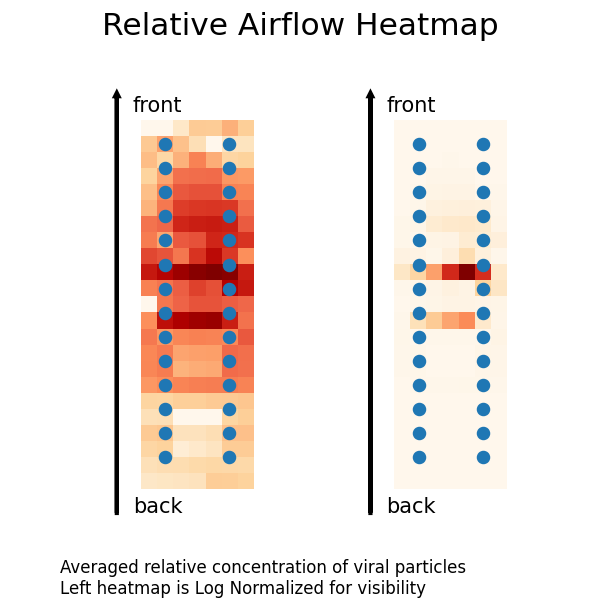
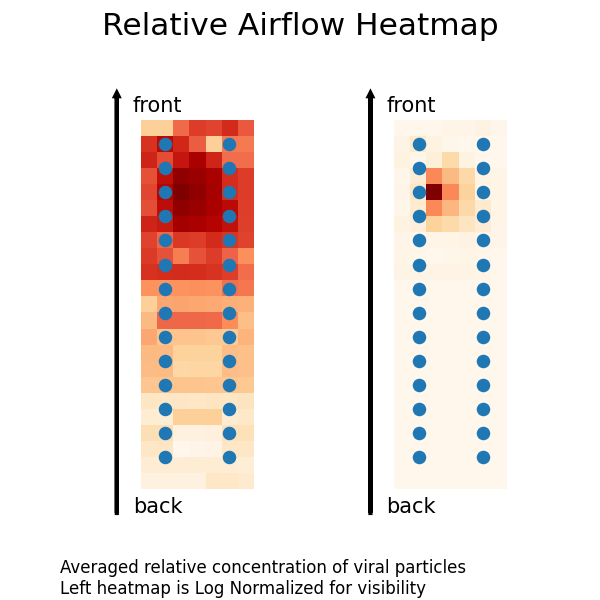
ok

Changed region(s): [[0.21, 0.18, 0.45, 0.84], [0.66, 0.24, 0.87, 0.57], [0.69, 0.21, 0.72, 0.24]]

diff --git a/av.py b/av.py
@@ -44,7 +44,7 @@ class user_viz():
         self.input_params2 = load_parameters_av(filepath='results/aerosol_data_.json')
         self.mask_eff = self.input_params2["mask_passage_prob"]
         self.seat_var = self.input_params["seating_choice"]
-        self.bus_trips = []
+        self.bus_out_arrays = []
 
         # bus dimensions
         # width and height are relatively standard: ergo area is 2.3 * L
@@ -134,182 +134,165 @@ class user_viz():
         print('Seating Plot Complete')
         return
 
-    def conc_heat(self):
-        '''
-        average over model runs: out_matrix averages
-        '''
-
-
-        bus_seating = self.generate_bus_seating()
-        bus_trip, conc_array, out_mat, chance_nonzero, avg_mat = bus_sim(int(self.students_var), self.mask_var, self.number_simulations, self.trip_length, self.seat_var, self.window_var) # replace default with selected
-        self.plot_bus_seating(bus_seating)
-        x_arr = []
-        y_arr = []
-        for i in bus_seating.items():
-            x_arr.append(i[1][1])
-            y_arr.append(i[1][0] * 1.5 + 1)
-
-        # get average of conc_array; avg_mat???
-
-        rot = mpl.transforms.Affine2D().rotate_deg(180)
-        fig = plt.figure()
-        ax1 = fig.add_subplot(1, 2, 1)
-        ax1.matshow(out_mat, cmap="OrRd", norm=mpl.colors.LogNorm())
-        plt.arrow(-2,24,0,-26, head_width=0.2, head_length=0.2, fc='k', ec='k')
-        plt.scatter(x=x_arr, y=y_arr, s=5)
-        plt.gcf().set_size_inches(2,2)
-        # plt.suptitle('Relative Airflow Heatmap', fontsize=7.5)
-        plt.annotate(xy=(-1, -1), text='front', fontsize=5)
-        plt.annotate(xy=(-1, 24), text='back', fontsize=5)
-        plt.axis('off')
-
-
-        ax2 = fig.add_subplot(1,2,2)
-        ax2.matshow(out_mat, cmap="OrRd")#, norm=mpl.colors.LogNorm())
-        plt.arrow(-2,24,0,-26, head_width=0.2, head_length=0.2, fc='k', ec='k')
-        plt.scatter(x=x_arr, y=y_arr, s=5)
-        plt.gcf().set_size_inches(2,2)
-        plt.suptitle('Relative Airflow Heatmap', fontsize=7.5)
-        plt.annotate(xy=(-1, -1), text='front', fontsize=5)
-        plt.annotate(xy=(-1, 24), text='back', fontsize=5)
-        # log scale vs regular scale + 'be not afraid'
-        plt.axis('off')
-        fig.text(.1, .01, 'Averaged relative concentration of viral particles\nLeft heatmap is Log Normalized for visibility', fontsize=4)
-        plt.savefig('results/relative_airflow.png', dpi=300)
-
-        print('relative airflow complete!')
-        # plt.show()
-
-
-                #### LOCAL / AV OUTPUT
-                # matshow triple
-                # 1 = worst case infectivity exhalation rate
-
-                # 2 = best case
-
-                # 3 = this case
-
-                # concentration average:
-                # take average of last step of 10k samples
-
-
-        return bus_trip, conc_array, out_mat, chance_nonzero, avg_mat, bus_seating
 
     # function to run model with user input
     def model_run(self):
         '''
-        1. call bus_trip
-
-        2. create figure
-        2.1 start plotting hist
-        2.2 window curve
-        2.3 5-min transmission likelihood
-        2.4 Averaged by Run and by Step
-        2.5 Infections by run
-        2.6 Scatter of distance vs infection
-        2.7 Transmission Rates
+        1 call bus_out_array
+        2 start plotting hist
+        3 window curve
+        4 5-min transmission likelihood
+        5 Averaged by Run and by Step
+        6 Infections by run
+        7 Scatter of distance vs infection
+        8 Transmission Rates
 
         '''
 
-        # run bus model
-        bus_trip, conc_array, out_mat, chance_nonzero, avg_mat, bus_seating = self.conc_heat() # THIS CASE
+        # 1bus_seating = self.generate_bus_seating()
+        bus_out_array, conc_array, out_mat, chance_nonzero, avg_mat = bus_sim(int(self.students_var), self.mask_var, self.number_simulations, self.trip_length, self.seat_var, self.window_var) # replace default with selected
+
         self.chance_nonzero = chance_nonzero
-        # print(chance_nonzero, 'more than none?')
         self.conc_array = conc_array
-        # self.bus_trips.append(bus_trip)
-        # print('model_run start')
+
+        # 2
         plt.figure(figsize=(5,4))#, dpi=300)
         plt.gcf().set_size_inches(5,4)
 
-        output_filepath = "/output/bus_simulation_" + str(self.students_var) + '_' + str(self.mask_var)+ '_' + str(self.number_simulations) + '_' + str(self.trip_length) + '_' + str(self.seat_var) + '_' + str(self.window_var) # str(i) for i in [self.inputs]
+        output_filepath = "output/bus_simulation_" + str(self.students_var) + '_' + str(self.mask_var)+ '_' + str(self.number_simulations) + '_' + str(self.trip_length) + '_' + str(self.seat_var) + '_' + str(self.window_var) # str(i) for i in [self.inputs]
+
+        # bus_out_array = this case
+        w_bus_out_array, w_conc_array, w_out_mat, w_chance_nonzero, w_avg_mat = bus_sim(int(self.students_var), self.mask_var, self.number_simulations, self.trip_length, self.seat_var, self.window_var) # WORST CASE
+
+        b_bus_out_array, b_conc_array, b_out_mat, b_chance_nonzero, b_avg_mat = bus_sim(int(self.students_var), self.mask_var, self.number_simulations, self.trip_length, self.seat_var, self.window_var) # BEST CASE
 
 
-        # bus_trip = this case
-        w_bus_trip, w_conc_array, w_out_mat, w_chance_nonzero, w_avg_mat = bus_sim(int(self.students_var), self.mask_var, self.number_simulations, self.trip_length, self.seat_var, self.window_var) # WORST CASE
-
-        b_bus_trip, b_conc_array, b_out_mat, b_chance_nonzero, b_avg_mat = bus_sim(int(self.students_var), self.mask_var, self.number_simulations, self.trip_length, self.seat_var, self.window_var) # BEST CASE
-
-
-
+        # 3
         # send plots to /output
+
+        # concentration
+        # x_arr = []
+        # y_arr = []
+        # for i in bus_seating.items():
+        #     x_arr.append(i[1][1])
+        #     y_arr.append(i[1][0] * 1.5 + 1)
+        #
+        # # get average of conc_array; avg_mat???
+        #
+        # rot = mpl.transforms.Affine2D().rotate_deg(180)
+        # fig = plt.figure()
+        # ax1 = fig.add_subplot(1, 2, 1)
+        # ax1.matshow(out_mat, cmap="OrRd", norm=mpl.colors.LogNorm())
+        # plt.arrow(-2,24,0,-26, head_width=0.2, head_length=0.2, fc='k', ec='k')
+        # plt.scatter(x=x_arr, y=y_arr, s=5)
+        # plt.gcf().set_size_inches(2,2)
+        # # plt.suptitle('Relative Airflow Heatmap', fontsize=7.5)
+        # plt.annotate(xy=(-1, -1), text='front', fontsize=5)
+        # plt.annotate(xy=(-1, 24), text='back', fontsize=5)
+        # plt.axis('off')
+        #
+        #
+        # ax2 = fig.add_subplot(1,2,2)
+        # ax2.matshow(out_mat, cmap="OrRd")#, norm=mpl.colors.LogNorm())
+        # plt.arrow(-2,24,0,-26, head_width=0.2, head_length=0.2, fc='k', ec='k')
+        # plt.scatter(x=x_arr, y=y_arr, s=5)
+        # plt.gcf().set_size_inches(2,2)
+        # plt.suptitle('Relative Airflow Heatmap', fontsize=7.5)
+        # plt.annotate(xy=(-1, -1), text='front', fontsize=5)
+        # plt.annotate(xy=(-1, 24), text='back', fontsize=5)
+        # # log scale vs regular scale + 'be not afraid'
+        # plt.axis('off')
+        # fig.text(.1, .01, 'Averaged relative concentration of viral particles\nLeft heatmap is Log Normalized for visibility', fontsize=4)
+        # plt.savefig('results/relative_airflow.png', dpi=300)
+        #
+        # print('relative airflow complete!')
 
         # HISTOGRAMS
         # Hist 1 Seating
-        fig, axs = plt.subplots()
-        seat_types = ['full', 'window', 'zigzag']
-        for s in seat_types:
-            bus_trip, conc_array, out_mat, chance_nonzero, avg_mat = bus_sim(int(self.students_var), self.mask_var, self.number_simulations, self.trip_length, s, self.window_var) # SEATING
-            print(bus_trip)
-            pd.Series(bus_trip[4]).plot.hist(bins=np.arange(0, 0.056, 0.001), alpha=.5)
-        plt.legend(['Full Occupancy Seating', 'Window Seats Only', 'Zigzag Seating'])
-        plt.xlabel('Mean likelihood of transmission at each step')
-        plt.ylabel('Number of students with this average risk of transmission')
-        seat_filepath = output_filepath + '_seating.png'
-        plt.savefig(seat_filepath, dpi=300)
+        # print('start seating')
+        # fig1, ax1 = plt.subplots()
+        # seat_types = ['full', 'window', 'zigzag']
+        # for s in seat_types:
+        #     bus_out_array, conc_array, out_mat, chance_nonzero, avg_mat = bus_sim(int(self.students_var), self.mask_var, self.number_simulations, self.trip_length, s, self.window_var) # SEATING
+        #     pd.Series(bus_out_array[2]).plot.hist(bins=np.arange(0, 0.12, 0.001), alpha=.5, ax=ax1)
+        #
+        # plt.legend(['Full Occupancy Seating', 'Window Seats Only', 'Zigzag Seating'])
+        # plt.xlabel('Mean likelihood of transmission at each step')
+        # plt.ylabel('Number of students with this average risk of transmission')
+        # seat_filepath = output_filepath + '_seating.png'
+        # fig1.savefig(seat_filepath, dpi=300)
+        # print('seating complete')
+        # plt.close(fig1)
 
         # Hist 2 Windows
-        window_types = ['closed', 'open']
-        for w in range(len(window_types)):
-            window_ = 6 * w
-            bus_trip, conc_array, out_mat, chance_nonzero, avg_mat = bus_sim(int(self.students_var), self.mask_var, self.number_simulations, self.trip_length, self.seat_var, w) # WINDOW
+        fig2, ax2 = plt.subplots()
+        window_types = [0, 6]
+        win_out_df = pd.DataFrame(columns=window_types)
+        for w in window_types:
+            bus_out_array, conc_array, out_mat, chance_nonzero, avg_mat = bus_sim(int(self.students_var), self.mask_var, self.number_simulations, self.trip_length, self.seat_var, w) # WINDOW
+            pd.Series(bus_out_array[2]).plot.hist(bins=np.arange(0, 0.056, 0.001), alpha=.5, ax=ax2)
 
-            pd.Series(bus_trip[4]).plot.hist(bins=np.arange(0, 0.056, 0.001), alpha=.5)
-
-        plt.legend(['Full Occupancy Seating', 'Window Seats Only', 'Zigzag Seating'])
+        plt.legend([0, 6])
         plt.xlabel('Mean likelihood of transmission at each step')
         plt.ylabel('Number of students with this average risk of transmission')
-        seat_filepath = output_filepath + '_windows.png'
-        plt.savefig(seat_filepath, dpi=300)
+        seat_filepath_2 = output_filepath + '_windows.png'
+        fig2.savefig(seat_filepath_2, dpi=300)
+        plt.close(fig2)
+        print('windows complete')
 
         # Hist 3 Masks
-        mask_amount = [100, 90, 80, 70]
+        fig3 = plt.figure(3)
+        mask_amount = [1, .9, .8, .7]
+        print('start masks')
         for m in mask_amount:
-            bus_trip, conc_array, out_mat, chance_nonzero, avg_mat = bus_sim(int(self.students_var), m, self.number_simulations, self.trip_length, self.seat_var, self.window_var) # SEATING
-            pd.Series(bus_trip[-1]).plot.hist(bins=np.arange(0, 0.056, 0.001), alpha=.5)
+            bus_out_array, conc_array, out_mat, chance_nonzero, avg_mat = bus_sim(int(self.students_var), m, self.number_simulations, self.trip_length, self.seat_var, self.window_var) # SEATING
+            pd.Series(bus_out_array[2]).plot.hist(bins=np.arange(0, 0.056, 0.001), alpha=.5)
 
         plt.legend(['100% Mask compliance', '90% Mask compliance', '80% Mask compliance', '70% Mask compliance'])
         plt.xlabel('Mean likelihood of transmission at each step')
         plt.ylabel('Number of students with this average risk of transmission')
-        seat_filepath = output_filepath + '_masks.png'
-        plt.savefig(seat_filepath, dpi=300)
+        seat_filepath_3 = output_filepath + '_masks.png'
+        fig3.savefig(seat_filepath_3, dpi=300)
+        plt.close(fig3)
+        print('masks complete')
 
         # # KDEPLOT and SCATTERPLOT
         # # KDE
-        # pd.Series(bus_trip).plot.kde(lw=2, c='r') # THIS KDEPLOT IS TO LOOK COOL AND DO NOTHING
-        # rework bus_trip into array of outputs:
+        # pd.Series(bus_out_array).plot.kde(lw=2, c='r') # THIS KDEPLOT IS TO LOOK COOL AND DO NOTHING
+        # rework bus_out_array into array of outputs:
         # All Transmission rates
         # Averaged Student/Run rates
         # Averaged /Step Student/Run rates
         # All Averaged /Step rates
-        # print(len(bus_trip))
+        # print(len(bus_out_array))
         #     fig, axes = plt.figure()
         #     print('please')
         #
         #
         # fig, axs = plt.subplots(2,2)
         # fig.tight_layout()
-        # # axs[0,0] = pd.Series(bus_trip[0]).plot.kde(lw=2, color='blue')
-        # # axs[1,0] = pd.Series(bus_trip[1]).plot.kde(lw=2, color='r')
-        # axs[0,0].hist(bus_trip[0], bins=np.arange(0, .03, .001))
+        # # axs[0,0] = pd.Series(bus_out_array[0]).plot.kde(lw=2, color='blue')
+        # # axs[1,0] = pd.Series(bus_out_array[1]).plot.kde(lw=2, color='r')
+        # axs[0,0].hist(bus_out_array[0], bins=np.arange(0, .03, .001))
         # axs[0,0].set_title('All 5-minute transmission likelihoods')
         #
-        # pd.Series(bus_trip[1]).plot.kde(ax=axs[1,0])#), bins=14)#, bins=np.arange(0, .03, .003))
+        # pd.Series(bus_out_array[1]).plot.kde(ax=axs[1,0])#), bins=14)#, bins=np.arange(0, .03, .003))
         # axs[1,0].set_title('Averaged by Run and by Step')
         #
-        # axs[0,1].hist(pd.Series(bus_trip[2]))#, bins=np.arange(0, .1, .001))
+        # axs[0,1].hist(pd.Series(bus_out_array[2]))#, bins=np.arange(0, .1, .001))
         # axs[0,1].set_title('Infections by run')
         #
-        # # print(bus_trip[3]["0"])
+        # # print(bus_out_array[3]["0"])
         # # axs[1,1] = fig.add_subplot(111)
-        # axs[1,1].scatter(bus_trip[5]["distance"], bus_trip[5]["transmission rate"], s=2, color='green', label='far')
-        # axs[1,1].scatter(bus_trip[4]["distance"], bus_trip[4]["transmission rate"], s=2, color='yellow', label='nearby')
-        # axs[1,1].scatter(bus_trip[3]["distance"], bus_trip[3]["transmission rate"], s=2, color='red', label='neighbors')
+        # axs[1,1].scatter(bus_out_array[5]["distance"], bus_out_array[5]["transmission rate"], s=2, color='green', label='far')
+        # axs[1,1].scatter(bus_out_array[2]["distance"], bus_out_array[2]["transmission rate"], s=2, color='yellow', label='nearby')
+        # axs[1,1].scatter(bus_out_array[3]["distance"], bus_out_array[3]["transmission rate"], s=2, color='red', label='neighbors')
         # axs[1,1].set_title('Distance from infected vs transmission rate')
         # axs[1,1].set_xlabel('Distance in Meters')
         # axs[1,1].set_ylabel('Transmission Rate')
         # plt.legend()
         # plt.savefig('results/transmission_rates.png', dpi=300)
-        # plt.close()
+        # plt.close(fig)
 
 
         # KDE2? One for each student with overlapped sections darker
@@ -317,5 +300,7 @@ class user_viz():
         # SCATTER
             # Distance from initially infectious vs infection rate / 10000
         #
+
+
 
         return

diff --git a/src/infection.py b/src/infection.py
@@ -132,9 +132,9 @@ def load_parameters(filepath):
 
 
 
-def return_aerosol_transmission_rate():
+def return_aerosol_transmission_rate(window):
                             '''
-
+                            TODO: make window variable
                             '''
 
                             dp = load_parameters('results/aerosol_data_.json')
@@ -150,23 +150,24 @@ def return_aerosol_transmission_rate():
                             max_aerosol_radius=2,
                             primary_outdoor_air_fraction=dp['primary_outdoor_air_fraction']
 
-
-
-
+                            if window == 6:
+                                ach = 20
+                            else:
+                                ach = 2
                             mean_ceiling_height_m = mean_ceiling_height * 0.3048 #m3
                             room_vol = floor_area * mean_ceiling_height  # ft3
                             # print(mean_ceiling_height)
                             room_vol_m = 0.0283168 * room_vol[0]  # m3
-                            print('ach', air_exchange_rate[0])
-                            fresh_rate = room_vol[0] * (air_exchange_rate[0]) / 60  # ft3/min
+                            fresh_rate = room_vol[0] * (ach) / 60  # ft3/min
                             recirc_rate = fresh_rate * (1/primary_outdoor_air_fraction - 1)  # ft3/min
                             air_filt_rate = aerosol_filtration_eff[0] * recirc_rate * 60 / room_vol[0]  # /hr
                             eff_aerosol_radius = ((0.4 / (1 - relative_humidity[0])) ** (1 / 3)) * max_aerosol_radius[0]
                             viral_deact_rate = max_viral_deact_rate[0] * relative_humidity[0]
                             sett_speed = 3 * (eff_aerosol_radius / 5) ** 2  # mm/s
                             sett_speed = sett_speed * 60 * 60 / 1000  # m/hr
+
                             # print(air_exchange_rate, air_filt_rate, viral_deact_rate, sett_speed, mean_ceiling_height_m) ###########################################
-                            conc_relax_rate = int(air_exchange_rate[0]) + air_filt_rate + viral_deact_rate + sett_speed / mean_ceiling_height_m  # /hr
+                            conc_relax_rate = int(ach) + air_filt_rate + viral_deact_rate + sett_speed / mean_ceiling_height_m  # /hr
                             # print('vars', breathing_flow_rate, mask_passage_prob, exhaled_air_inf, room_vol_m, conc_relax_rate, recirc_rate)
                             airb_trans_rate = ((breathing_flow_rate[0] * float(mask_passage_prob[0])) ** 2) * exhaled_air_inf[0] / (room_vol_m * conc_relax_rate)
                             # print('airborne transmission rate', airb_trans_rate)

diff --git a/src/bus.py b/src/bus.py
@@ -264,10 +264,10 @@ def bus_sim(n_students, mask, n_sims, trip_len, flow_seats_, window_): # do 1 tr
     g_shape, g_loc, g_scale = s_l_s_infectivity_density
 
     # print(dp, 'default')
-    # print(window_, 'window var')
-    bus_aerosol = return_aerosol_transmission_rate()#aerosol_params['floor_area'], aerosol_params['mean_ceiling_height'], aerosol_params['air_exchange_rate'], aerosol_params['aerosol_filtration_eff'], aerosol_params['relative_humidity'], aerosol_params['breathing_flow_rate'], aerosol_params['exhaled_air_inf'], aerosol_params['max_viral_deact_rate'], aerosol_params['mask_passage_prob'])
+    # print(window_, 'window var')#aerosol_params['floor_area'], aerosol_params['mean_ceiling_height'], aerosol_params['air_exchange_rate'], aerosol_params['aerosol_filtration_eff'], aerosol_params['relative_humidity'], aerosol_params['breathing_flow_rate'], aerosol_params['exhaled_air_inf'], aerosol_params['max_viral_deact_rate'], aerosol_params['mask_passage_prob'])
 
 
+    bus_aerosol = return_aerosol_transmission_rate(window_)
     concentration_array, avg_matrix = concentration_distribution(n_steps, n_sims, bus_flow_pos)
     # return average concentration over run
     out_matrix = np.array(np.zeros(shape=concentration_array[0].shape))
